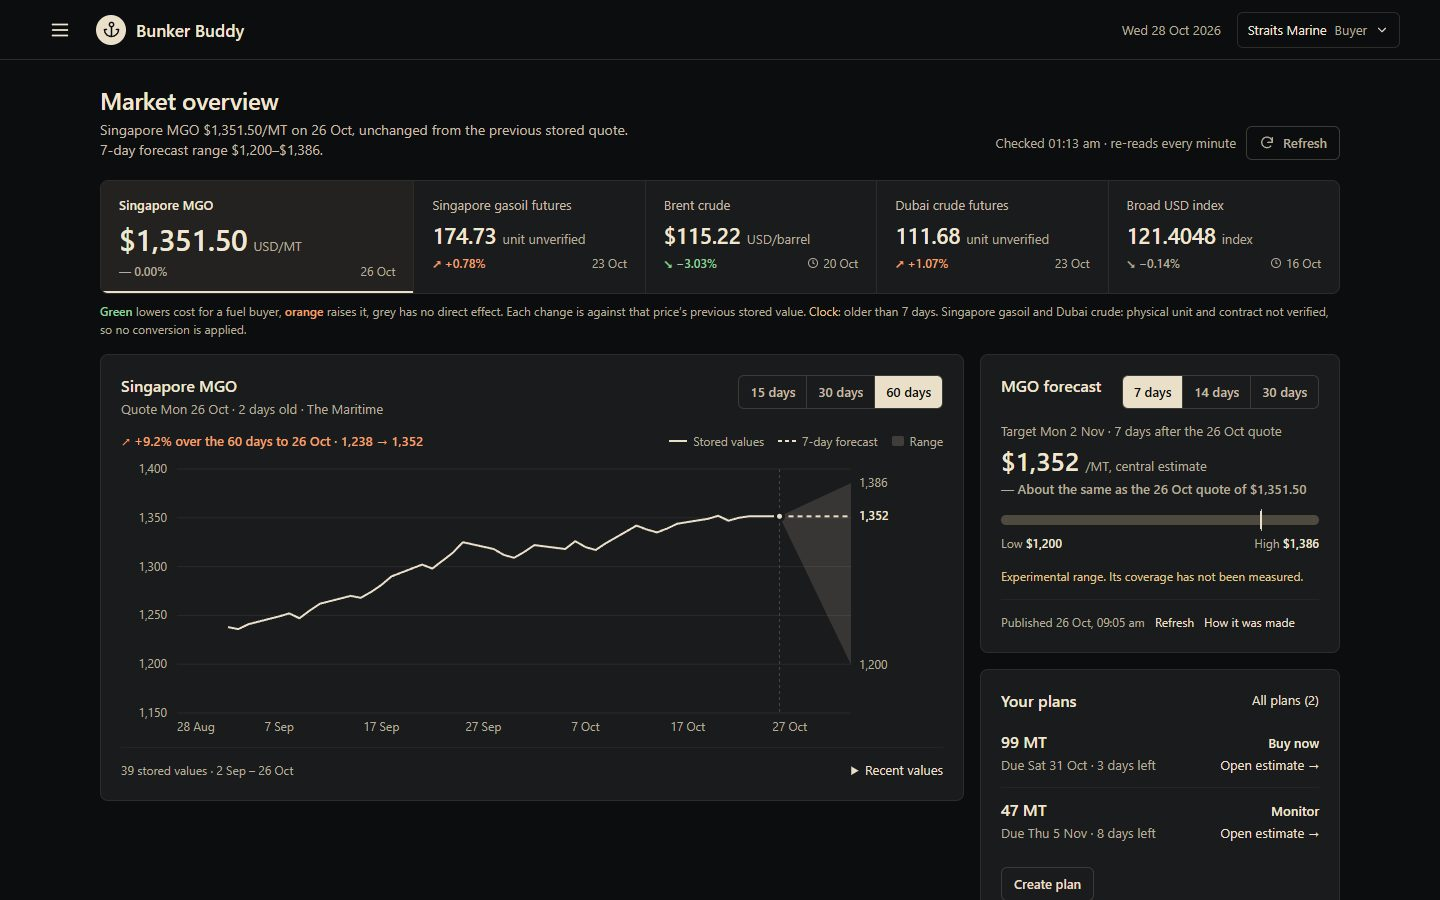
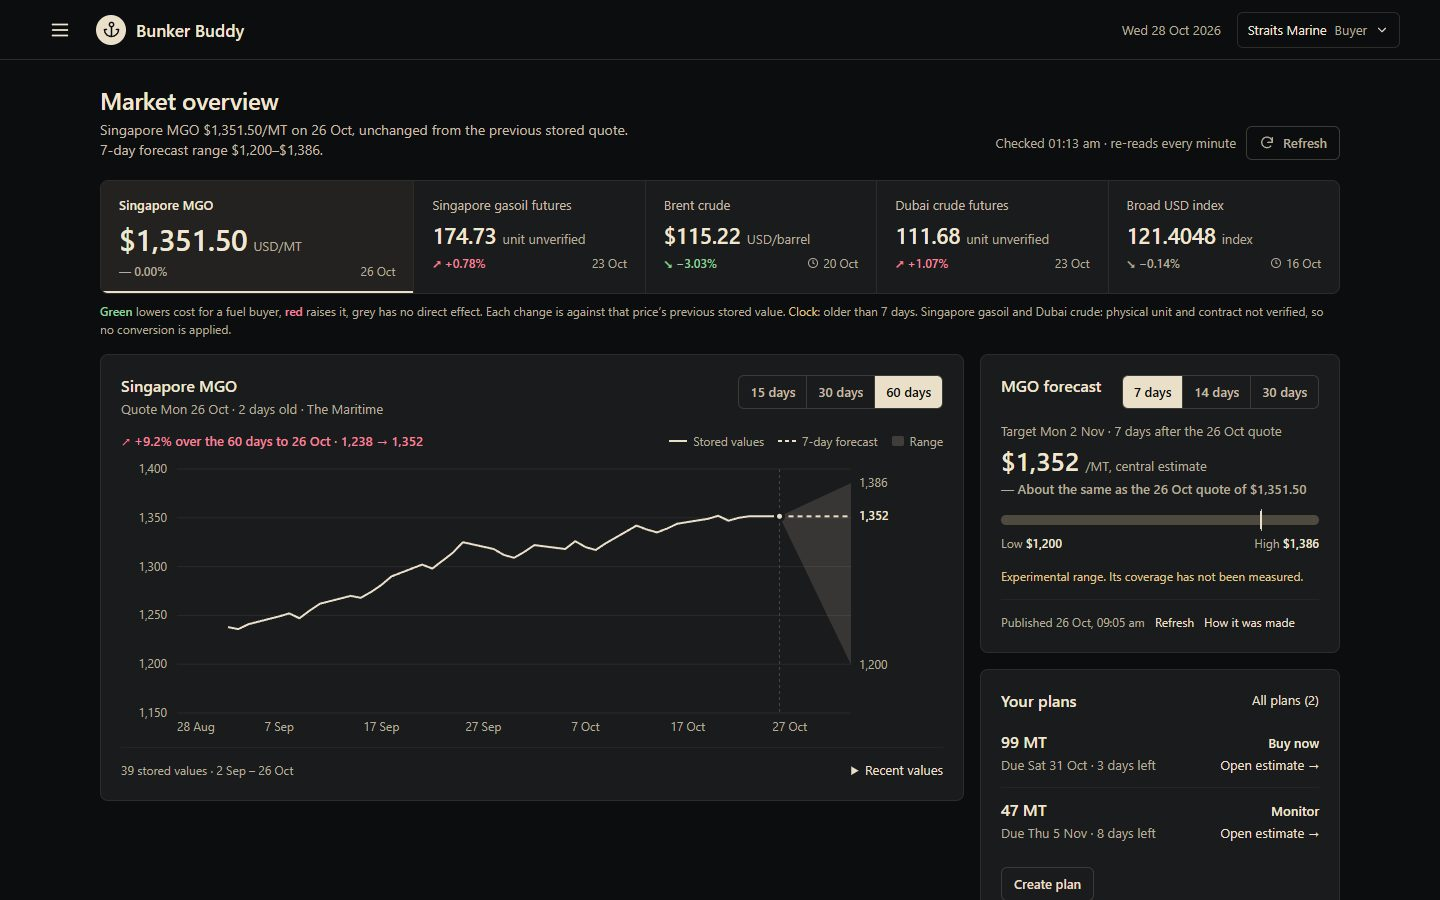
Make the dearer colour red, per the buyer-meaning colour decision
The owner chose buyer meaning (green = cheaper). The dearer colour moves from
orange to #f2849e, which clears taste's cream-and-terracotta palette FAIL
(inspector now 0 FAIL, 2 WARN). MISSING.md now points to handover.md for the
post-decision gaps instead of repeating them.

Changed region(s): [[0.1875, 0.3422, 0.9062, 0.3733], [0.0938, 0.4667, 0.2188, 0.4978], [0.0625, 0.3422, 0.1562, 0.3733]]

diff --git a/docs/ui-revamp/market-proposal/market-proposal.html b/docs/ui-revamp/market-proposal/market-proposal.html
@@ -10,7 +10,7 @@
 :root {
   --ground: #0c0d0e; --surface: #1a1b1c; --raised: #232220; --border: #2d2c29; --rule: #262523; --control: #3d3b36;
   --ink: #f0e6d2; --soft: #c5bba7; --muted: #b5ac9b; --accent: #eadfc9; --on-accent: #0c0d0e;
-  --ease: #8fd19e; --pressure: #f2a172; --notice: #e2c48a; --grid: #2a2926;
+  --ease: #8fd19e; --pressure: #f2849e; --notice: #e2c48a; --grid: #2a2926;
   --font: 'Segoe UI', 'Helvetica Neue', Arial, sans-serif;
   --radius-card: 8px; --radius-control: 6px; --gap: 16px; --pad: 20px;
 }
@@ -376,7 +376,7 @@ details.card[open] > summary svg { transform: rotate(180deg); }
     }).join('');
     const unverified = prices.filter((s) => s.ticker.unit === 'source-defined').map((s) => s.ticker.label.replace(/ futures$/, ''));
     const staleOnes = prices.filter((s) => ageDays(s.ticker.observedDate) > STALE_DAYS);
-    const notes = ['<b class="ease">Green</b> lowers cost for a fuel buyer, <b class="pressure">orange</b> raises it, grey has no direct effect. Each change is against that price’s previous stored value.'];
+    const notes = ['<b class="ease">Green</b> lowers cost for a fuel buyer, <b class="pressure">red</b> raises it, grey has no direct effect. Each change is against that price’s previous stored value.'];
     if (staleOnes.length) notes.push(`<span class="stale">Clock</span>: older than ${STALE_DAYS} days.`);
     if (unverified.length) notes.push(`${esc(unverified.join(' and '))}: physical unit and contract not verified, so no conversion is applied.`);
     el.innerHTML = `<section aria-label="Prices" style="display:flex;flex-direction:column;gap:8px"><div class="strip">${cells}</div><p class="strip-note">${notes.join(' ')}</p></section>`;

diff --git a/docs/ui-revamp/market-proposal/MISSING.md b/docs/ui-revamp/market-proposal/MISSING.md
@@ -60,29 +60,21 @@ What is really missing is everything **after** step 5 (section 3).
 | M6 | **Organisation switcher and date** | frontend | Both are static in the proposal. The real switcher is `organisationControl` (Clerk). The date chip should show the backend's Singapore date (`/api/v1/config`), not the browser's. |
 | M7 | **Navigation drawer** | design | The menu button opens nothing. The drawer exists in `AppShell` (Home, Purchase plans, Market dashboard, Sign out, and a disabled market link when not connected). Draw it in the new style. |
 | M8 | **Real data** | — | Six of 16 sales categories, sample histories, a sample forecast. Run `snapshot.mjs` with the backend up. |
-| M9 | **Taste round-1 fixes** | design | Orange "pressure" hue (palette FAIL), two ragged rows, the explanatory captions, the always-full range bar, near-sparkline news charts. See TASTE_REVIEW.md. |
+| M9 | **Taste round-1 fixes** | design | ~~Orange "pressure" hue (palette FAIL)~~ fixed 2026-10-28, two ragged rows, the explanatory captions, the always-full range bar, near-sparkline news charts. See TASTE_REVIEW.md. |
 | M10 | **States not drawn yet** | design | Refresh failing while data is shown on a phone. A series with exactly one observation. Very long fuel or series names. A forecast whose target falls beyond a plan's deadline. Overdue plans (logic exists, not reviewed visually). |
 
-## 3. Missing from the product flow (not only this page)
+## 3. Everything after the manager decides
 
-| # | Gap | Tag | Why it matters |
-|---|---|---|---|
-| F1 | **Recording the purchase after approval** | backend, frontend, decision | An approved plan stays "approved" forever. There is no step for the buyer to record what actually happened: date ordered, supplier, quantity bought, price paid (USD/MT), and optionally a delivery date. PRD FR-07 says the app never *executes* a purchase. Recording one is different, and it is what would let the team compare the estimate with the realised cost (PRD §9's end-to-end check). Needs a status after `approved` (for example `purchased` / `closed`) and a small form. |
-| F2 | **Rejected plans are a dead end** | backend, frontend | Edit and delete only work on `draft` (`PurchasePlanRepository` filters `status = 'draft'`). A rejected plan can't be revised, resubmitted or deleted, and the buyer must create a new plan by hand. Add "Revise and resubmit", or "Copy to a new draft" that keeps the rejection reason visible. |
-| F3 | **No withdrawal** | backend, frontend, decision | A buyer can't withdraw a submitted request (for example, the deadline moved), so it stays locked until a manager decides. |
-| F4 | **The buyer never hears back** | frontend | Managers get an inbox that refreshes every 30 s. The buyer only sees the decision by opening their plans. Add a buyer-side "decided" list or a badge on the plan and in navigation. |
-| F5 | **Buyer accept / reject / ignore (PRD FR-08)** | decision | Built as "submit for approval", which reads as *accept*. There is no way to record "rejected the advice" or "ignored it", and nothing records which recommendation version the buyer saw when they did not submit. Decide whether submit = accept and whether reject/ignore need recording. |
-| F6 | **Approved but past deadline** | backend, decision | No state for an approved plan whose deadline passes without a recorded purchase. It shows as overdue and approved at once. |
-| F7 | **Split purchases** | backend, frontend, decision | The policy can return `SPLIT` (with allocations), but a plan has one quantity and one deadline. There is no way to plan or record two tranches. |
-| F8 | **Notifications outside the app** | backend, decision | No email or Clerk notifications (`plan-submission.md`: none configured). Managers must be on the purchase-plans page to see requests. |
-| F9 | **Analyst and admin consoles** | later | Documented as later work in `organisation-role-access.md`. |
-| F10 | **Change detection and stale-data alerts (PRD FR-10)** | later | Not built. The market page shows staleness per price (the clock), but nothing alerts. |
-| F11 | **Bugs in the current market code** | frontend | Experimental forecast shows "Target coverage: 0%". The evidence badge and skill line never render in production (parser drops the fields). An unlisted price series sorts before MGO. Unused files remain. Details in PARITY.md. |
+Moved to [`docs/handover.md` → Recommendations](../../handover.md#recommendations), which the recommendations
+teammate owns: recording the purchase, rejected plans, withdrawal, buyer notifications, expiry, split purchases and
+the buyer's accept/reject/ignore (PRD FR-08). Analyst and admin consoles and change-detection alerts (PRD FR-10)
+remain later work.
 
-## 4. Suggested order
+## 4. Status (2026-10-28)
 
-1. **M1 + M2 + M4 + M5** in the next design round, together with the taste fixes (M9). These are presentation only.
-2. **F2 and F4.** They are small and they unblock real use: a rejected buyer currently has to start over, unaware.
-3. **F1** once the team agrees on what "done" means for a plan. It gives the demo its last step: forecast → estimate →
-   approval → purchase recorded → estimate vs actual.
-4. **F5, F3, F6, F7, F8** as decisions, before building.
+- **Decided:** colour = buyer meaning (green cheaper, red `#f2849e` dearer, grey no direct effect); MGO first;
+  two range controls labelled Past and Next (M4). The palette FAIL in M9 is fixed.
+- **Handed over** in [`docs/handover.md` → Market dashboard](../../handover.md#market-dashboard): the "Your plans"
+  block (M1, M2, M3), the horizon question, the admin forecast 403, building the spec in React, and the bugs from
+  PARITY.md.
+- **Still open in the spec:** M5–M8, M10, and the rest of M9 (uneven rows, captions, range bar, news charts).

diff --git a/docs/ui-revamp/market-proposal/PARITY.md b/docs/ui-revamp/market-proposal/PARITY.md
@@ -99,7 +99,9 @@ Legend: ✅ kept · ⚠ kept but changed · ❌ missing · ➕ new.
 3. `StoredMarketPanel` sorts prices by `order.indexOf`, so a series that isn't in the list (index −1) is placed **first**, ahead of MGO.
 4. Unused files still in the folder: `TickerCards.jsx`, `MGOChart.jsx`, `IndicatorsTable.jsx`, `useMarketDashboard.js` (hard-coded fallback prices 614.5 / 78.45), `BrentMarketPanel.jsx` + `brent-market.css`, `dashboard.css`.
 
-## Decisions for the owner (and the dashboard owner, per `App.tsx`)
+## Decisions (and the dashboard owner, per `App.tsx`)
+
+**Update 2026-10-28:** decision 1 is made (buyer meaning; the dearer colour is now red `#f2849e`, not orange). Decisions 2 and 3 are handed over in [`docs/handover.md` → Market dashboard](../../handover.md#market-dashboard).
 
 1. **Colour meaning.** CREATIVE_BRIEF §3.5 says green = up, red = down. The mock and this proposal use buyer meaning instead: green lowers cost, orange raises it, and the USD index stays grey. Taste supports buyer meaning, but fails the beige + orange pairing as an "assistant palette". Either way the pressure hue needs to change.
 2. **Plans on the market page.** This is a cross-feature block. It needs the plan list plus one recommendation read per plan, or it shows only deadlines and links.

diff --git a/docs/ui-revamp/market-proposal/TASTE_REVIEW.md b/docs/ui-revamp/market-proposal/TASTE_REVIEW.md
@@ -4,6 +4,10 @@ Reviewed with tasteskill 2.1.5, app-screen run (`references/app-screens.md` §2.
 `market-proposal.html` with the sample data in `market-data.js`. Screenshots are in `taste-review/` (1440, 768, 390).
 Every `?state=` preview was opened in Chromium with no script errors.
 
+**Update 2026-10-28:** the owner chose buyer meaning for colour, and the dearer colour changed from orange `#f2a172`
+to red `#f2849e`. The inspector now reports **0 FAIL**, 2 WARN: the beige brand ink (`palette-cream`, accepted) and
+the uneven card rows. The screenshots in `taste-review/` are from that run.
+
 ## Gate
 
 | Check | Current dashboard (28 Oct) | Proposal |
